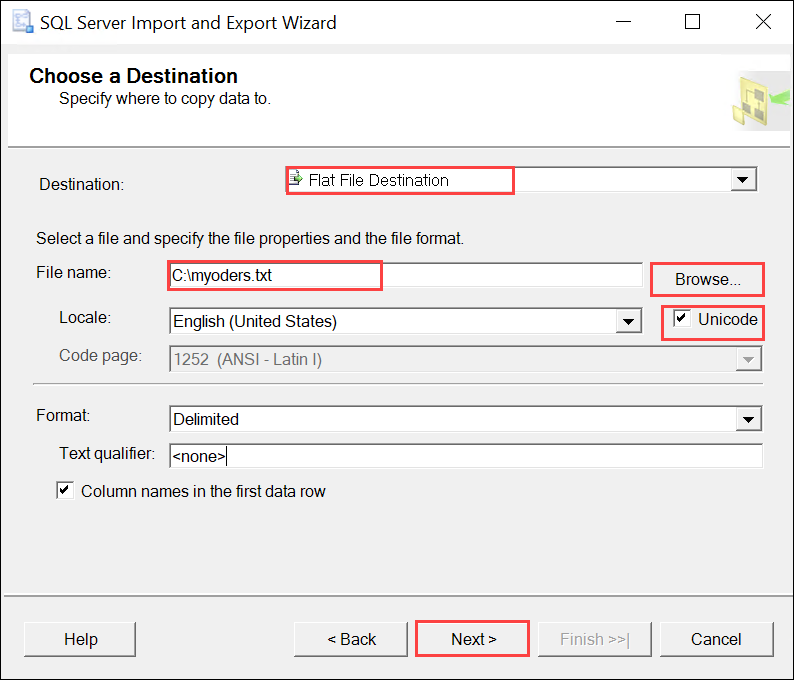
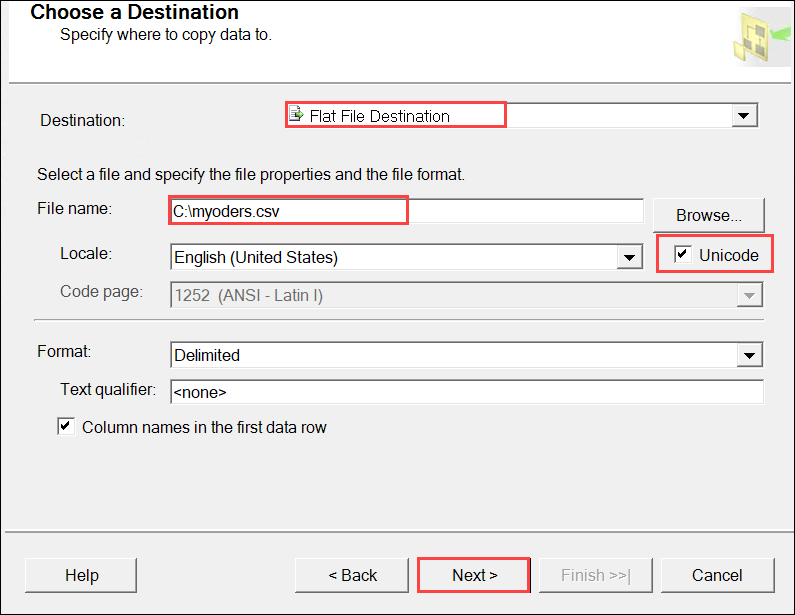
update

diff --git a/Coach/Challenge-5.md b/Coach/Challenge-5.md
@@ -4,8 +4,6 @@
 
 ### Export a CSV File from SQL Server
 
-1. Create a new text file named **myorders** in the **C:** drive. 
-
 1. In SQL Server Management Studio, click on **New Query** and paste the code below. This query exports data from SQL Server to a CSV file, extracting the top 30% of values based on the specified criteria.
 
    ![newquerya](images/newquerya.png)
@@ -63,7 +61,7 @@
 
    - Select **Flat File Destination** as the destination type.
 
-   - Click the **Browse** button and select the file you just created.
+   - In **File name**, specify the location and file name as **C:\myorders.csv**.
 
    - Enable the checkbox for **Unicode** to support special characters.
 
@@ -91,45 +89,48 @@
 
 1. Return to AI Studio and open your previous project
 
-1. In **AzureAI Studio**, go to the **Data files (1)** section from the left menu, click **+ Add data (2)**, and select **For assistans (3)**.
+1. Click on **Data + Indexes** in the navigation menu, then click on the **+ New Data** button.
 
-    ![](images/datafiles.png)
+   ![](images/newdata1.png)
 
-2. Click **Select local files**, choose the **myorders** file, and click **Open**.  
+1. From the **Data source** dropdown, select **Upload files/folders**.
 
-1. Select the exported csv file and then click **Open**.
+   ![](images/datasource1.png)
 
-   ![exportedcsv](images/exportedcsv.png)
+1. Click on **Upload files or folder**, then select **Upload files**.
 
-3. Click **Upload** to upload the file.
+   ![](images/datasource2.png)
 
-    ![](images/datafiles1.png)
-    ![](images/datafiles2.png)
+1. Select the exported csv file and then click **Next**.
 
-1. Select the exported csv file and then click **Next**
+   ![](images/outputcsv.png)
 
-    ![exportedcsv](images/exportedcsv.png)
+1. Provide a unique **Data name** then click **Create**.
 
-    
-1. Next click on **Indexes** and click **+ New index**
+   ![](images/undataname.png)
 
-    ![newindexes](images/newindexes.png)
-    
-1. From the dropdown select **Data in Azure AI Studio**
+1. Next click on **Indexes** and click **+ New index**.
 
-    ![datainstudio](images/datainstudio.png)
-    
-1. Click the radio button next to the **Data source** you created previously then click **Next**
+   ![](images/indeexes.png)
 
-    ![selectdata 1](images/selectdata1.png)
-    
+1. From the dropdown select **Data in Azure AI Studio**.
+
+   ![](images/dataloc1.png)
+
+2. Click the radio button next to the **Data source** you created previously then click **Next**.
+
+   ![](images/dataloc.png)
+
 1. Configure the **Azure AI Search** by selecting your **AI Search** and using the current **Index name** then click **Next**
 
-1. On the **Configure search settings** leave the default settings and then click **Next**
 
-    ![confisearch](images/confisearch.png)
-    
-1. Click **Create**
+1. On the **Configure search settings** leave the default settings and then click **Next**.
+
+   ![](images/vectorsetting.png)
+
+1. Click on **Create vector index**.
+
+   ![](images/vectorindex.png)
 
 1. Give the AI Studio time to complete the ingestion process
 
@@ -155,7 +156,6 @@
     ```
     based off the previous sales, what categories should be pre-ordered for each quarter?
     ```
-
 
     ![whenandkind](images/whenandkind.png)
     
@@ -281,7 +281,6 @@
 
     ```
     pip install azure-cosmos pandas
-    
     ```
 
 1. Run the following notebook file in a newly create Jupyter notebook file and folder.
